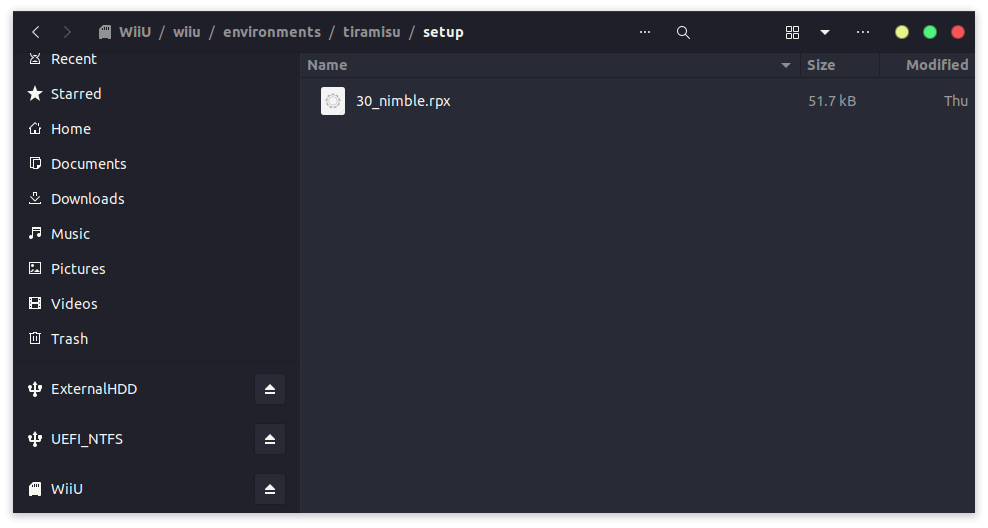
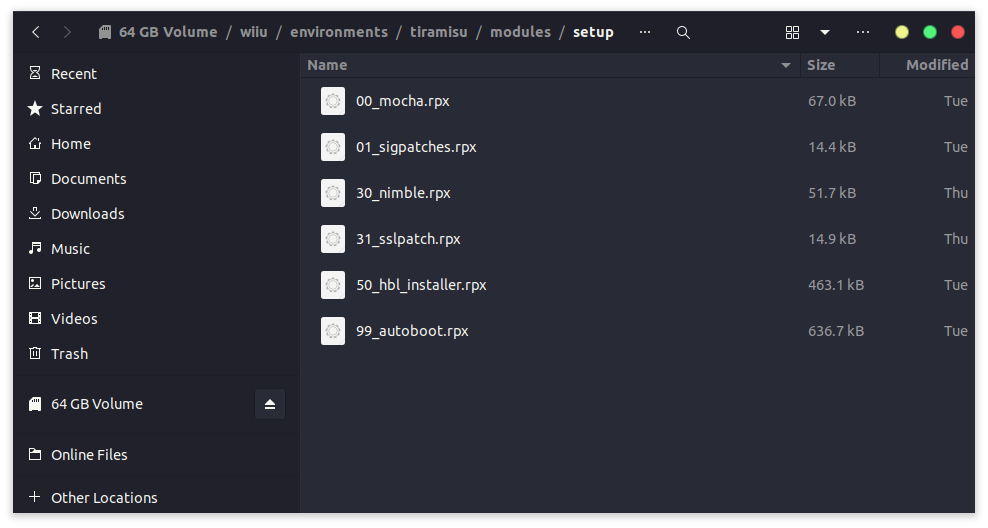
Fixed wrong SD card path for Tiramisu docs

diff --git a/docs/en_US/install/wiiu.md b/docs/en_US/install/wiiu.md
@@ -24,7 +24,7 @@ Now download the `30_nimble.rpx` file from the latest release
 
 <img src="/assets/images/docs/install/wiiu/tiramisu/rpx-highlight.png" width=100% height=auto/>
 
-Place the downloaded `30_nimble.rpx` file on your SD card at `sd:/wiiu/environments/tiramisu/setup`
+Place the downloaded `30_nimble.rpx` file on your SD card at `sd:/wiiu/environments/tiramisu/modules/setup`
 
 <img src="/assets/images/docs/install/wiiu/tiramisu/sd-card.png" width=100% height=auto/>
 
@@ -43,7 +43,7 @@ Select the `nimble` artifact. This will download a `nimble.zip` zip file
 
 <img src="/assets/images/docs/install/wiiu/tiramisu/artifact-highlight.png" width=100% height=auto/>
 
-Extract `nimble.zip` and place the extracted `30_nimble.rpx` file on your SD card at `sd:/wiiu/environments/tiramisu/setup`
+Extract `nimble.zip` and place the extracted `30_nimble.rpx` file on your SD card at `sd:/wiiu/environments/tiramisu/modules/setup`
 
 <img src="/assets/images/docs/install/wiiu/tiramisu/sd-card.png" width=100% height=auto/>
 
